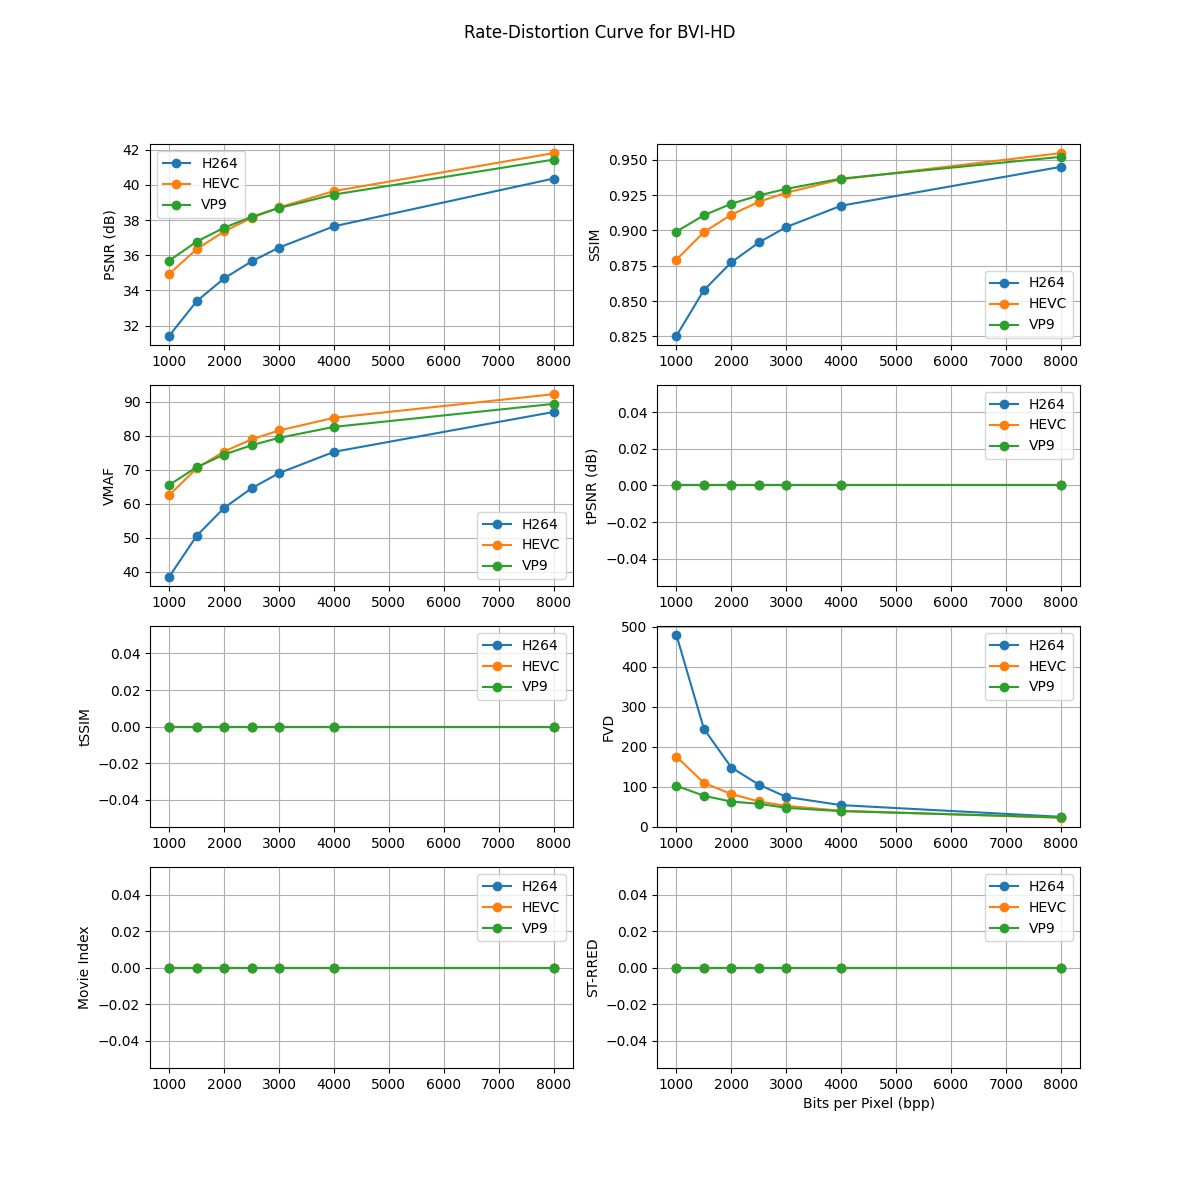
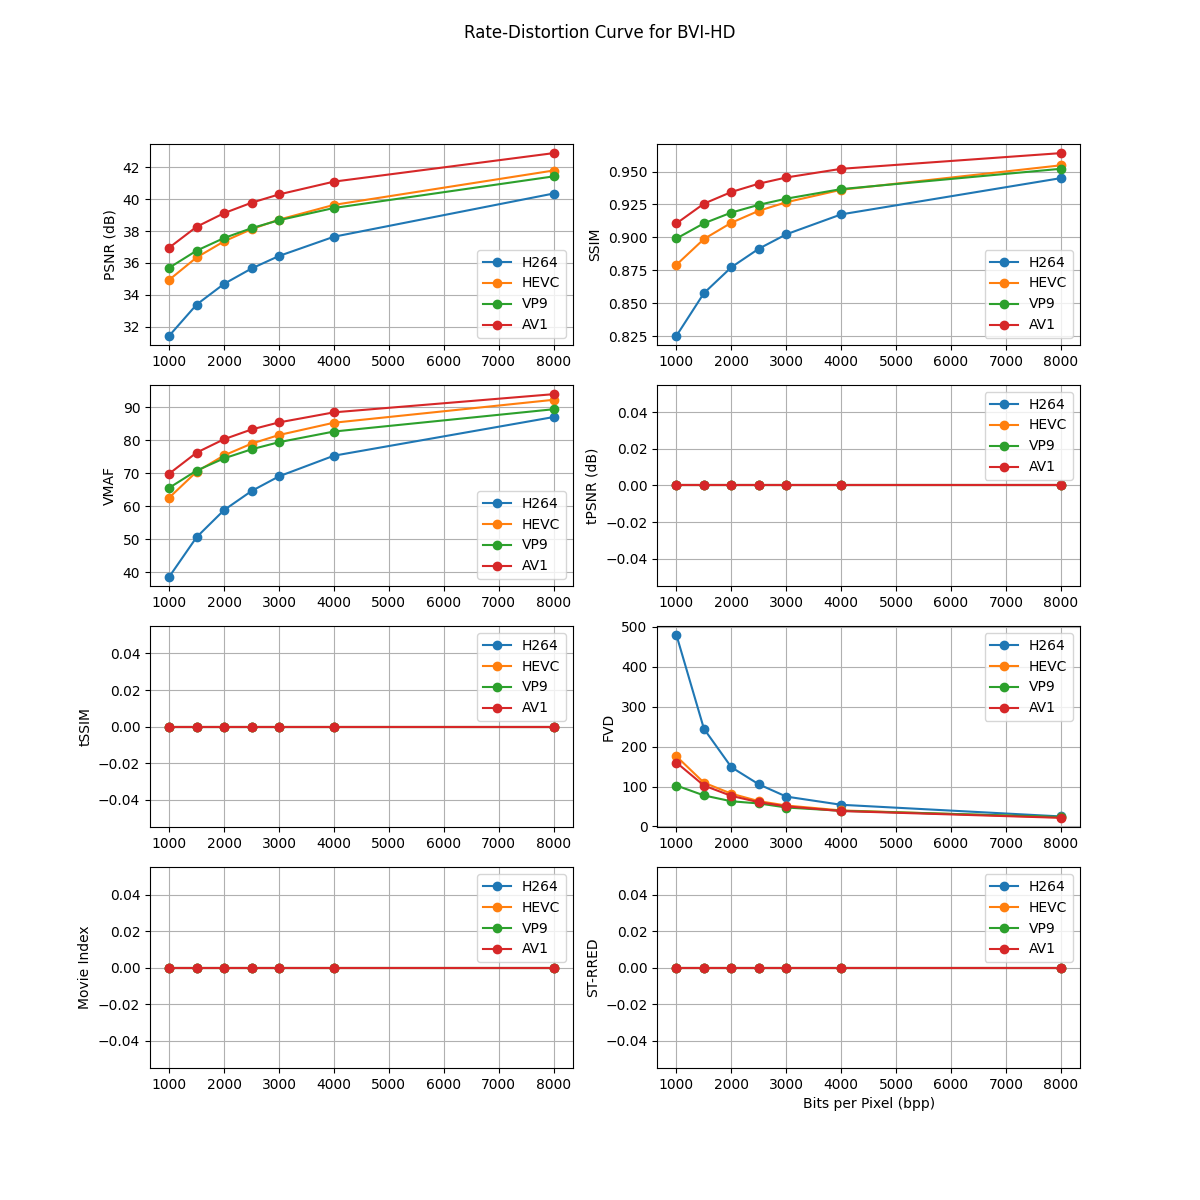
new plots

diff --git a/metrics/TPSNR_and_TSSIM.py b/metrics/TPSNR_and_TSSIM.py
@@ -2,15 +2,26 @@ import cv2
 import numpy as np
 import concurrent.futures
 import os
+import subprocess
+import tempfile
+from uuid import uuid4
 from skimage.metrics import structural_similarity as ssim
-from metrics.load_video_frames import load_video_frames
+from load_video_frames import load_video_frames
 
 _FLOW_PARAMS = dict(pyr_scale=0.5, levels=3, winsize=15,
                     iterations=3, poly_n=5, poly_sigma=1.2, flags=0)
+_NUL = "NUL" if os.name == "nt" else "/dev/null"
 
 
-def _to_gray_list(frames, num):
-    return [cv2.cvtColor(f, cv2.COLOR_BGR2GRAY).astype(np.float32) for f in frames[:num]]
+def _to_gray_list(frames, num, scale_factor=1.0, luma_only=True):
+    out = []
+    for f in frames[:num]:
+        if scale_factor != 1.0:
+            h, w = f.shape[:2]
+            f = cv2.resize(f, (int(w * scale_factor), int(h * scale_factor)), interpolation=cv2.INTER_AREA)
+        gray = cv2.cvtColor(f, cv2.COLOR_BGR2GRAY if luma_only else cv2.COLOR_BGR2GRAY).astype(np.float32)
+        out.append(gray)
+    return out
 
 
 def _calc_flow(prev, curr):
@@ -66,23 +77,24 @@ def _worker_pair(idx, orig_gray, comp_gray, grid_x, grid_y, w, h, single_flow):
     return float(ssim_val), float(psnr_val)
 
 
-def _run_pairs(orig_frames, comp_frames, single_flow=False):
+def _run_pairs(orig_frames, comp_frames, single_flow=False, frame_step=1, scale_factor=1.0, luma_only=True, use_process_pool=False):
     ssim_values = []
     psnr_values = []
     num_frames = min(len(orig_frames), len(comp_frames))
     if num_frames < 2:
         return ssim_values, psnr_values
 
-    orig_gray = _to_gray_list(orig_frames, num_frames)
-    comp_gray = _to_gray_list(comp_frames, num_frames)
+    orig_gray = _to_gray_list(orig_frames, num_frames, scale_factor, luma_only)
+    comp_gray = _to_gray_list(comp_frames, num_frames, scale_factor, luma_only)
 
     h, w = orig_gray[0].shape
     grid_x, grid_y = np.meshgrid(np.arange(w), np.arange(h))
 
-    indices = list(range(1, num_frames))
+    indices = list(range(1, num_frames, frame_step))
     cpu_count = os.cpu_count() or 4
     max_workers = min(len(indices), max(1, cpu_count))
-    with concurrent.futures.ThreadPoolExecutor(max_workers=max_workers) as ex:
+    Executor = concurrent.futures.ProcessPoolExecutor if use_process_pool else concurrent.futures.ThreadPoolExecutor
+    with Executor(max_workers=max_workers) as ex:
         futures = {ex.submit(_worker_pair, idx, orig_gray, comp_gray, grid_x, grid_y, w, h, single_flow): idx for idx in indices}
         for fut in concurrent.futures.as_completed(futures):
             res = fut.result()
@@ -95,38 +107,67 @@ def _run_pairs(orig_frames, comp_frames, single_flow=False):
     return ssim_values, psnr_values
 
 
-def compute_temporal_psnr(orig_frames, comp_frames):
-    ssim_vals, psnr_vals = _run_pairs(orig_frames, comp_frames, single_flow=False)
+def compute_temporal_psnr(orig_frames, comp_frames, frame_step=1, scale_factor=1.0, luma_only=True, use_process_pool=False):
+    ssim_vals, psnr_vals = _run_pairs(orig_frames, comp_frames, single_flow=False, frame_step=frame_step, scale_factor=scale_factor, luma_only=luma_only, use_process_pool=use_process_pool)
     if len(psnr_vals) == 0:
         return float('nan')
     return float(np.mean(psnr_vals))
 
 
-def compute_temporal_SSIM(orig_frames, comp_frames):
-    ssim_vals, psnr_vals = _run_pairs(orig_frames, comp_frames, single_flow=False)
+
+def compute_temporal_SSIM(orig_frames, comp_frames, frame_step=1, scale_factor=1.0, luma_only=True, use_process_pool=False):
+    ssim_vals, psnr_vals = _run_pairs(orig_frames, comp_frames, single_flow=False, frame_step=frame_step, scale_factor=scale_factor, luma_only=luma_only, use_process_pool=use_process_pool)
     if len(ssim_vals) == 0:
         return float('nan')
     return float(np.mean(ssim_vals))
 
 
-def compute_tSSIM_and_tPSNR(orig_frames, comp_frames, single_flow=False):
-    ssim_vals, psnr_vals = _run_pairs(orig_frames, comp_frames, single_flow=single_flow)
+def compute_tSSIM_and_tPSNR(orig_frames, comp_frames, single_flow=False, frame_step=1, scale_factor=1.0, luma_only=True, use_process_pool=False):
+    ssim_vals, psnr_vals = _run_pairs(orig_frames, comp_frames, single_flow=single_flow, frame_step=frame_step, scale_factor=scale_factor, luma_only=luma_only, use_process_pool=use_process_pool)
     if len(ssim_vals) == 0 or len(psnr_vals) == 0:
         return float('nan'), float('nan')
     return float(np.mean(ssim_vals)), float(np.mean(psnr_vals))
 
 
-def compute_tSSIM_and_tPSNR_by_paths(orig_video_path, comp_video_path):
+def compute_tSSIM_and_tPSNR_by_paths(orig_video_path, comp_video_path, frame_step=1, scale_factor=1.0, luma_only=True, use_process_pool=False):
     orig_frames = load_video_frames(orig_video_path)
     comp_frames = load_video_frames(comp_video_path)
-    return compute_tSSIM_and_tPSNR(orig_frames, comp_frames)
+    return compute_tSSIM_and_tPSNR(orig_frames, comp_frames, frame_step=frame_step, scale_factor=scale_factor, luma_only=luma_only, use_process_pool=use_process_pool)
 
-def tSSIM_by_paths(orig_video_path, comp_video_path):
+def tSSIM_by_paths(orig_video_path, comp_video_path, use_ffmpeg=True, frame_step=1, scale_factor=1.0, luma_only=True, use_process_pool=False):
+    if use_ffmpeg:
+        try:
+            threads = max(1, (os.cpu_count() or 1) - 1)
+            return compute_temporal_ssim_ffmpeg(orig_video_path, comp_video_path, max_frames=None, threads=threads, start_offset=None)
+        except Exception as e:
+            print(e)
+            pass
     orig_frames = load_video_frames(orig_video_path)
     comp_frames = load_video_frames(comp_video_path)
-    return compute_temporal_SSIM(orig_frames, comp_frames)
+    return compute_temporal_SSIM(orig_frames, comp_frames, frame_step=frame_step, scale_factor=scale_factor, luma_only=luma_only, use_process_pool=use_process_pool)
 
-def tPSNR_by_paths(orig_video_path, comp_video_path):
+def tPSNR_by_paths(orig_video_path, comp_video_path, use_ffmpeg=True, frame_step=1, scale_factor=1.0, luma_only=True, use_process_pool=False):
+    if use_ffmpeg:
+        try:
+            threads = max(1, (os.cpu_count() or 1) - 1)
+            return compute_temporal_psnr_ffmpeg(orig_video_path, comp_video_path, max_frames=None, threads=threads, start_offset=None)
+        except Exception as e:
+            print(e)
+            pass
     orig_frames = load_video_frames(orig_video_path)
     comp_frames = load_video_frames(comp_video_path)
-    return compute_temporal_psnr(orig_frames, comp_frames)
+    return compute_temporal_psnr(orig_frames, comp_frames, frame_step=frame_step, scale_factor=scale_factor, luma_only=luma_only, use_process_pool=use_process_pool)
+
+import time
+
+if __name__ == "__main__":
+    # Example usage
+    orig_path = "videos/UVG/Beauty_1920x1080_120fps_420_8bit_YUV.y4m"
+    comp_path = "compressed_videos/UVG/h264/1/Beauty_1920x1080_120fps_420_8bit_YUV_h264.mp4"
+    print("Computing tSSIM and tPSNR...")
+    start_time = time.time()
+    tpsnr, tssim = compute_tSSIM_and_tPSNR_by_paths(orig_path, comp_path, frame_step=1, scale_factor=1.0, luma_only=True, use_process_pool=True)
+    end_time = time.time()
+    print(f"Computation time: {end_time - start_time:.2f} seconds")
+    print(f"tPSNR: {tpsnr}")
+    

diff --git a/visualizations/visualize_frame_types.py b/visualizations/visualize_frame_types.py
@@ -110,7 +110,7 @@ def visualize_frame_type_distribution(output_dir='visualizations/frame_type_dist
             plt.savefig(plot_file)
             plt.close()
 
-def visualize_frame_type_distribution_by_TI_groups(output_dir='visualizations/frame_type_distribution_by_TI'):
+def visualize_frame_type_distribution_by_TI_groups(output_dir='visualizations/frame_type_distribution_by_TI', number_of_groups=4):
     """
     Visualizes frame type distribution categorized by TI groups.
     """
@@ -123,7 +123,7 @@ def visualize_frame_type_distribution_by_TI_groups(output_dir='visualizations/fr
         print(f"Results directory not found: {results_dir}")
         return
 
-    TI_groups = get_TI_groups(datasets=datasets,number_of_groups=6)
+    TI_groups = get_TI_groups(datasets=datasets,number_of_groups=number_of_groups)
     print(f"Loaded TI groups for datasets: {list(TI_groups.keys())}")
     # output: [1, 2, 3, 4]
     print(f"Sample TI groups: {list(TI_groups.items())[:5]}")
@@ -246,6 +246,6 @@ def visualize_frame_type_distribution_by_TI_groups(output_dir='visualizations/fr
     plt.close()
     
 if __name__ == '__main__':
-    visualize_frame_type_distribution_by_TI_groups()
+    visualize_frame_type_distribution_by_TI_groups(number_of_groups=4)
     #visualize_frame_type_distribution()
     pass

diff --git a/visualizations/visualize_results_line.py b/visualizations/visualize_results_line.py
@@ -4,9 +4,9 @@ import os
 import json
 from TI_groups import get_TI_groups
 
-datasets = [ "BVI-HD"]
+datasets = [ "BVI-HD", "HEVC_CLASS_B", "UVG"]
 levels = [1,1.5,2,2.5,3,4,8]
-codecs = ["h264", "hevc", "vp9"]
+codecs = ["h264", "hevc", "vp9", "av1"]
 
 dataset_2_files = {
     "UVG": "results/eval_metrics_uvg_",
@@ -609,7 +609,7 @@ def visualize_results_by_video(output_dir="visualizations/plots_by_video"):
 if __name__ == "__main__":
     visualize_results_by_codec()
     visualize_results_by_level()
-    #visualize_results_by_TI_group()
+    visualize_results_by_TI_group()
     #visualize_results_by_video()
-    #visualize_results_by_TI_group_deviation_of_codecs(number_of_groups=4, fill_between=True)
+    visualize_results_by_TI_group_deviation_of_codecs(number_of_groups=4, fill_between=True)
     pass
